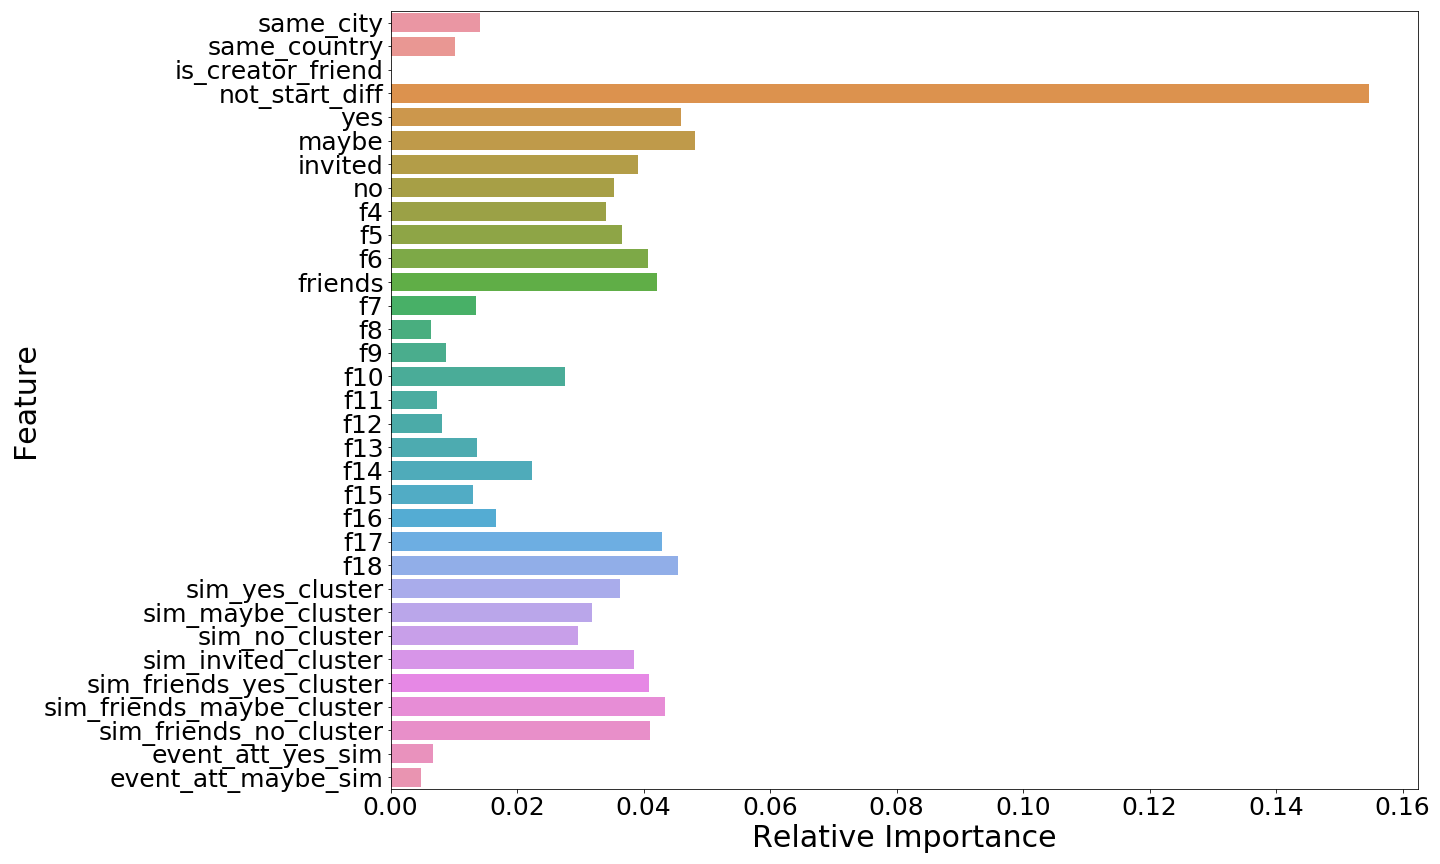
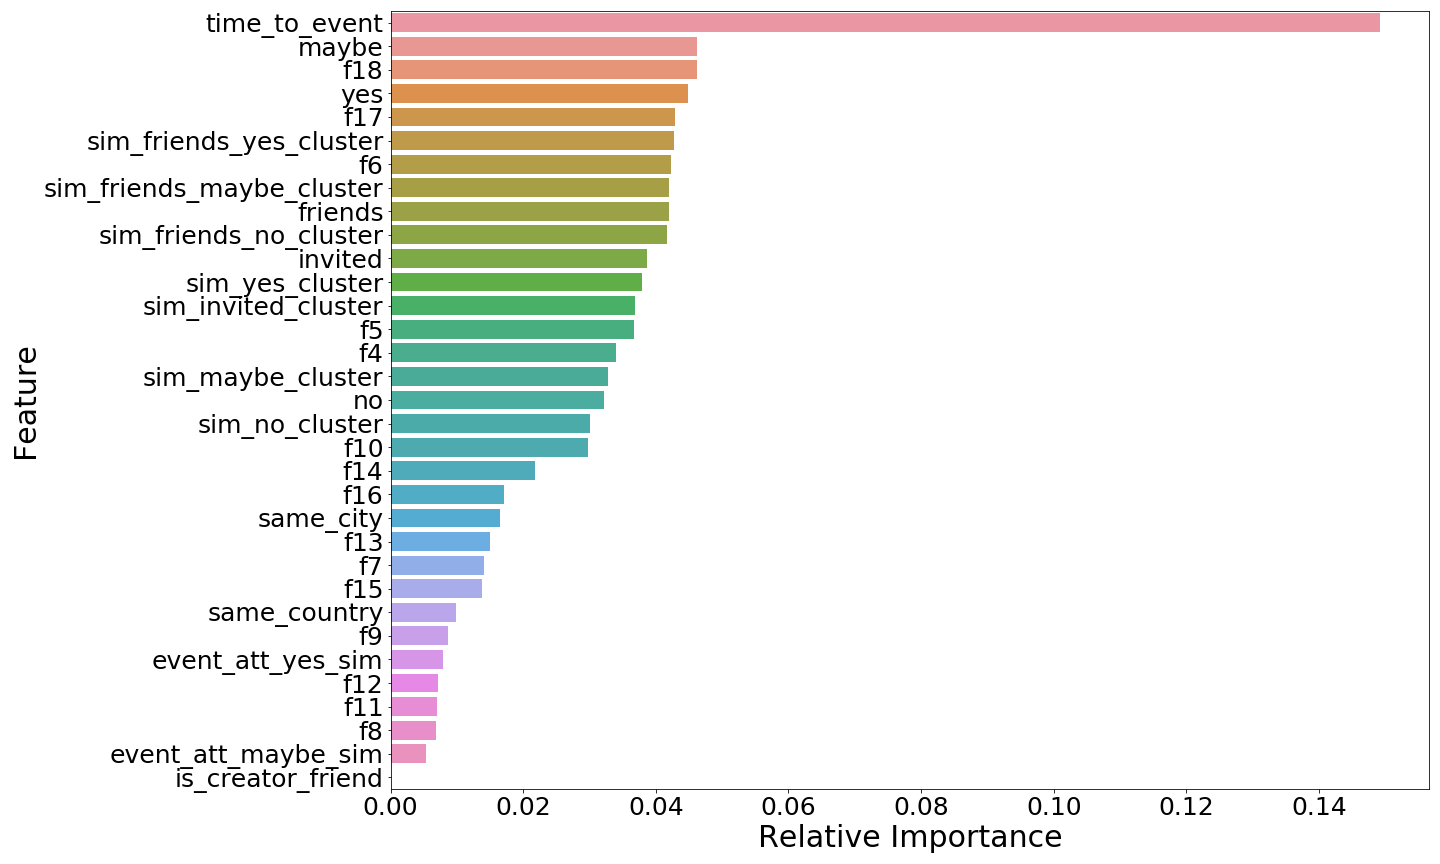
described few classifiers, sorted ft importances

diff --git a/README.md b/README.md
@@ -67,11 +67,6 @@ As we were mentioning before, one major drawback with event based recommendation
    <img  src="./results/elbow.png"> </div>
    <div align = "center"><i>Figure 2: K Means Elbow Plot </i> </div>
 
-   <!-- <div align="center">
-   <img width="300" height="200" src="./results/elbow.png">
-   <i>Figure 2: K Means Elbow Plot </i>
-   </div> -->
-
    To visualize the clusters, we reduced the dimensions from 100 to 3 using PCA. Below is an interactive visualization of the first three principal components of events and their clusters.  
 
    <iframe id="igraph" scrolling="no" style="border:none;" seamless="seamless" src="https://pruthviperumalla.github.io/Event-Recommender-System/cluster.html" height="525" width="100%"></iframe>
@@ -112,10 +107,19 @@ To generate recommendations for a user, we consider every event from the given c
 Our train test split is 80:20. To avoid overfitting and tune the hyperparameters, we used 5-folds cross validation on the training split. Below, we discuss the experiments, results and analysis of the various models we trained in the interest prediction phase. 
 
 - **Random Forest**
-The relative feature importances determined by the random forest model are shown in the figure <#>.
-![alt text](./results/rf_feat_imp.png "Feature Importances")
+
+   After tuning hyper parameters using k folds cross validation, we got the best results for an ensemble of 100 trees with depth limited to 15, gini impurity as the criterion to split, and with bootstrapping of the total number of data points drawn as samples and square root of the total number of features considered for the construction of a tree. The relative feature importances determined by the Random Forest model are shown in the figure <#>.
+
+   <div align="center">
+   <img  src="./results/rf_feat_imp.png"> </div>
+
+   <div align = "center"> <i> Figure 3: Relative Feature Importances </i> </div>
+
+   As seen from the figure above, time to event is the most important feature that determines whether a user will be interested in attending an event or not. The peformance of the Random Forest is the best out of all supervised classifiers we tried. 
 
 - **K Nearest Neighbors**
+
+   In this model, we used 20 nearest neighbors for classification where each point is weighted by the inverse of their distance. KNN also produced above baseline results.
 
 - **Logistic Regression**
 
@@ -127,9 +131,11 @@ The relative feature importances determined by the random forest model are shown
 
 - **Gaussian Naive Bayes**
 
-   Gaussian Naive Bayes model below the baseline result in terms of F0.5 score. The naive assumption that the every pair of features is conditionally independent may not hold in our case. Also, Naive Bayes gives equal importance to all the fields and does not discrimate betweeen the features. These may be reasons for its low performance.
+   Peformance of Gaussian Naive Bayes model is below the baseline model in terms of F0.5 score. The naive assumption that the every pair of features is conditionally independent may not hold in our case. Also, Naive Bayes gives equal importance to all the fields and does not discrimate betweeen the features. These may be reasons for its low performance.
 
 - **Ensemble Classifier**
+
+   To further improve the performance, we experimented with an ensemble of several of the above models we implemented. We obtained the best validation as well as the test results with an ensemble of Random Forest classifier and KNN classifer. These two classifiers are ensembled by the hard(majority) voting mechanism with 0.9 weight for Random Forest and 0.1 weight for KNN. In terms of F0.5 score, the ensemble model shows 2.6% improvement over the Random Forest classifier and 4.8% improvement over the KNN classifier.
 
 - VALUES NEED TO BE UPDATED!
 
